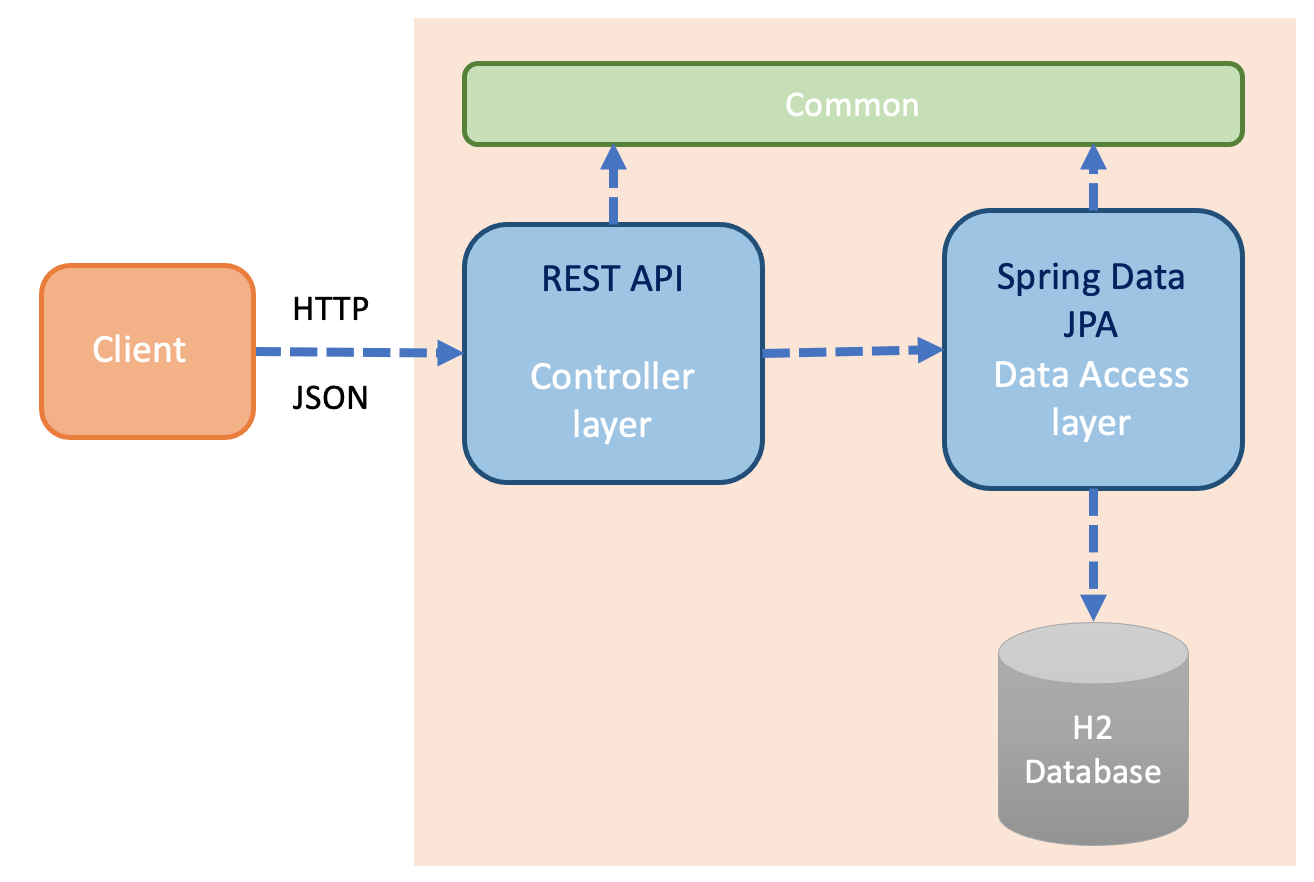
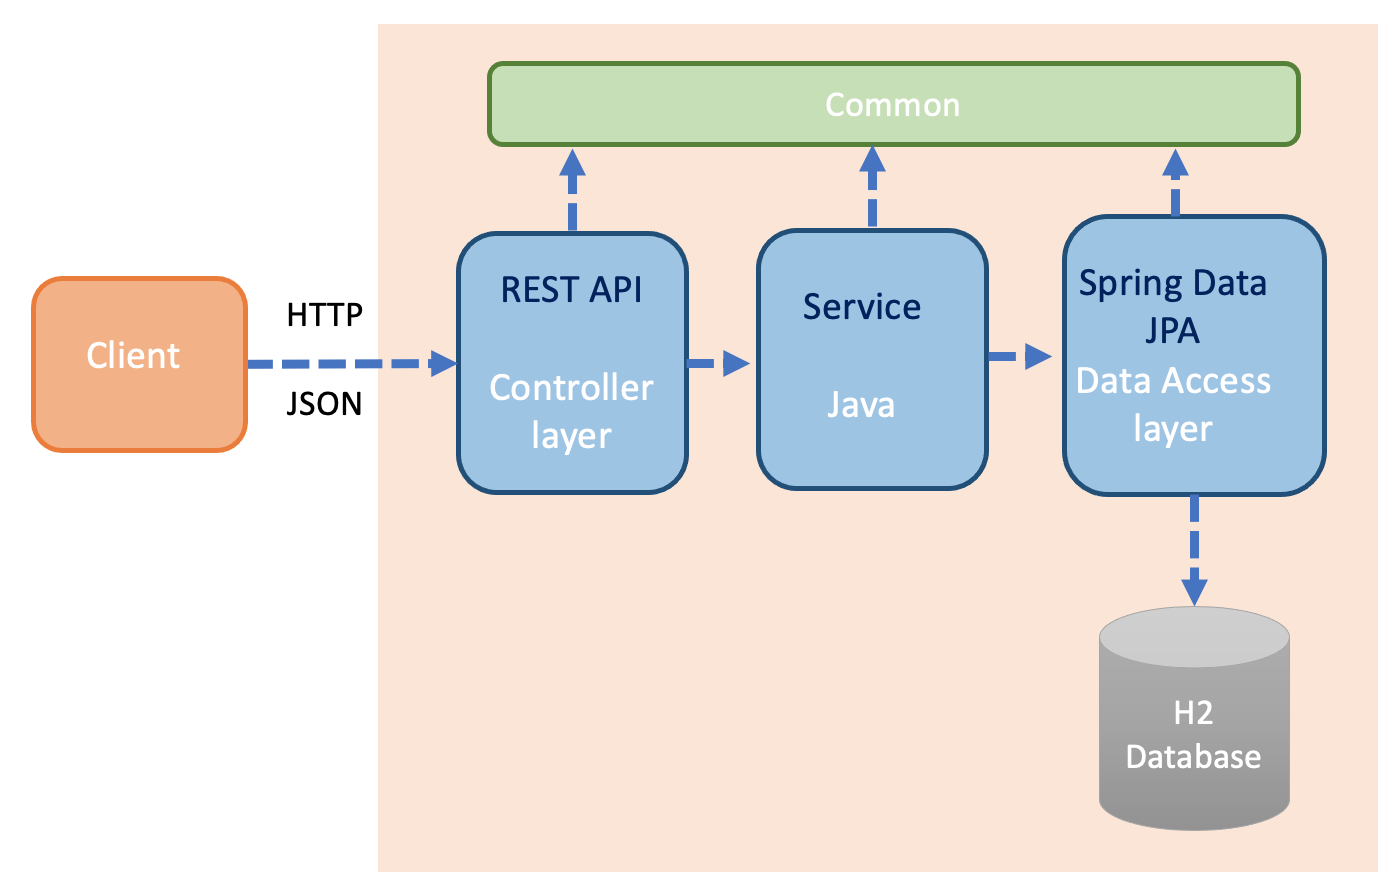
update readme

Changed region(s): [[0.0, 0.0, 0.9985, 1.0], [0.9049, 0.2449, 0.9673, 0.551]]

diff --git a/src/test/java/com/tiwa007/gamematchrestapi/controller/UserControllerTest.java b/src/test/java/com/tiwa007/gamematchrestapi/controller/UserControllerTest.java
@@ -1,11 +1,9 @@
 package com.tiwa007.gamematchrestapi.controller;
 
 import com.fasterxml.jackson.databind.ObjectMapper;
-import com.tiwa007.gamematchrestapi.Service.UserService;
+import com.tiwa007.gamematchrestapi.service.UserService;
 import com.tiwa007.gamematchrestapi.entity.Interest;
 import com.tiwa007.gamematchrestapi.entity.User;
-import com.tiwa007.gamematchrestapi.repository.InterestRepository;
-import com.tiwa007.gamematchrestapi.repository.UserRepository;
 import org.junit.Test;
 import org.junit.runner.RunWith;
 import org.mockito.internal.verification.VerificationModeFactory;
@@ -22,7 +20,6 @@ import static org.assertj.core.api.AssertionsForInterfaceTypes.assertThat;
 import static org.hamcrest.CoreMatchers.is;
 import static org.hamcrest.Matchers.hasSize;
 import static org.mockito.BDDMockito.given;
-import static org.mockito.Mockito.reset;
 import static org.mockito.Mockito.verify;
 import static org.springframework.test.web.servlet.request.MockMvcRequestBuilders.*;
 import static org.springframework.test.web.servlet.result.MockMvcResultMatchers.jsonPath;

diff --git a/src/test/java/com/tiwa007/gamematchrestapi/service/UserServiceTest.java b/src/test/java/com/tiwa007/gamematchrestapi/service/UserServiceTest.java
@@ -1,6 +1,5 @@
-package com.tiwa007.gamematchrestapi.Service;
+package com.tiwa007.gamematchrestapi.service;
 
-import com.fasterxml.jackson.databind.ObjectMapper;
 import com.tiwa007.gamematchrestapi.common.exception.InvalidRequestException;
 import com.tiwa007.gamematchrestapi.common.exception.ResourceNotFoundException;
 import com.tiwa007.gamematchrestapi.entity.Interest;

diff --git a/src/test/java/com/tiwa007/gamematchrestapi/controller/InterestControllerTest.java b/src/test/java/com/tiwa007/gamematchrestapi/controller/InterestControllerTest.java
@@ -1,7 +1,7 @@
 package com.tiwa007.gamematchrestapi.controller;
 
 import com.fasterxml.jackson.databind.ObjectMapper;
-import com.tiwa007.gamematchrestapi.Service.InterestService;
+import com.tiwa007.gamematchrestapi.service.InterestService;
 import com.tiwa007.gamematchrestapi.entity.Interest;
 import com.tiwa007.gamematchrestapi.entity.User;
 import org.junit.Test;

diff --git a/src/main/java/com/tiwa007/gamematchrestapi/controller/InterestController.java b/src/main/java/com/tiwa007/gamematchrestapi/controller/InterestController.java
@@ -1,6 +1,6 @@
 package com.tiwa007.gamematchrestapi.controller;
 
-import com.tiwa007.gamematchrestapi.Service.InterestService;
+import com.tiwa007.gamematchrestapi.service.InterestService;
 import com.tiwa007.gamematchrestapi.entity.Interest;
 import io.swagger.annotations.Api;
 import io.swagger.annotations.ApiOperation;

diff --git a/src/main/java/com/tiwa007/gamematchrestapi/controller/UserController.java b/src/main/java/com/tiwa007/gamematchrestapi/controller/UserController.java
@@ -1,7 +1,7 @@
 package com.tiwa007.gamematchrestapi.controller;
 
 
-import com.tiwa007.gamematchrestapi.Service.UserService;
+import com.tiwa007.gamematchrestapi.service.UserService;
 import com.tiwa007.gamematchrestapi.entity.Interest;
 import com.tiwa007.gamematchrestapi.entity.User;
 import io.swagger.annotations.Api;

diff --git a/src/test/java/com/tiwa007/gamematchrestapi/integration/UserControllerIntegrationTest.java b/src/test/java/com/tiwa007/gamematchrestapi/integration/UserControllerIntegrationTest.java
@@ -274,10 +274,6 @@ public class UserControllerIntegrationTest {
                 .andExpect(jsonPath("$[0].userId", is(1005)));
     }
 
-
-
-//    Todo for rest methods
-
 //    Helper methods
 
     private UserRequest produceTestUser(String name, String gender, String nickname, String geography, Integer credit,

diff --git a/src/main/java/com/tiwa007/gamematchrestapi/service/InterestService.java b/src/main/java/com/tiwa007/gamematchrestapi/service/InterestService.java
@@ -1,4 +1,4 @@
-package com.tiwa007.gamematchrestapi.Service;
+package com.tiwa007.gamematchrestapi.service;
 
 import com.tiwa007.gamematchrestapi.common.exception.InvalidRequestException;
 import com.tiwa007.gamematchrestapi.common.exception.ResourceNotFoundException;

diff --git a/src/test/java/com/tiwa007/gamematchrestapi/service/InterestServiceTest.java b/src/test/java/com/tiwa007/gamematchrestapi/service/InterestServiceTest.java
@@ -1,4 +1,4 @@
-package com.tiwa007.gamematchrestapi.Service;
+package com.tiwa007.gamematchrestapi.service;
 
 import com.tiwa007.gamematchrestapi.common.exception.InvalidRequestException;
 import com.tiwa007.gamematchrestapi.entity.Interest;

diff --git a/src/main/java/com/tiwa007/gamematchrestapi/service/UserService.java b/src/main/java/com/tiwa007/gamematchrestapi/service/UserService.java
@@ -1,4 +1,4 @@
-package com.tiwa007.gamematchrestapi.Service;
+package com.tiwa007.gamematchrestapi.service;
 
 import com.tiwa007.gamematchrestapi.entity.Interest;
 import com.tiwa007.gamematchrestapi.entity.User;

diff --git a/README.md b/README.md
@@ -16,7 +16,7 @@ Main features include:
 
 - [Architecture](#architecture)
 - [REST API Design](#rest-api-design)
-- [Datamodel](#datamodel)
+- [Service layer](#service-layer)
 - [Unit testing](#unit-testing)
 
 #### Architecture
@@ -29,19 +29,39 @@ The below image shows the high level architecture of the backend server.
 \
 Package overview:
 - **`gamematchrestapi.controller`**: Provides the REST API.
+- **`gamematchrestapi.service`**: Main logic of the application in POJOs (Plain Old Java Objects).
 - **`gamematchrestapi.entity`**: Classes that represent persistable entities.
 - **`gamematchrestapi.repository`**: Classes performs CRUD (Create, Read, Update, Delete) operations and act as the bridge to the H2 Database.
-- **`gamematchrestapi.exception`**: Contains custom exceptions.
-- **`gamematchrestapi.config`**: Classes for the configuration of Swagger 3 and CORS.
+- **`gamematchrestapi.common`**:  Common component contains custom exceptions and configuration of Swagger 3 and CORS.
 
 ![High Level Architecture](docs/images/highlevelArchitecture.png)
 
 #### REST API Design
-The following tables shows the design of the REST API. 
+The following tables shows the design of the REST API. The class ``UserController`` implements No. 1-8 API methods for ``User`` entity. 
+The class ``InterestController`` implements No. 9-13 API methods for ``Interest`` entity. 
 ![REST API Design1](docs/images/RESTAPI1.png)
 ![REST API Design2](docs/images/RESTAPI2.png)
 
-#####Policies
+#### Service layer
+
+The service layer handles the business logic of the system. 
+It is responsible for: 
+- Managing relationships between entities, e.g. cascade logic for create/update/delete.
+- Searching for desired user and interest
+
+##### Datamodel
+There are two entities: `User` and `Interest`. Entity `User` has name, gender, nickname and geography attributes. 
+Entity `Interest` has game, level, credit attributes. Entity `User` have an one-to-many relationship with Entity `Interest`.
+
+![Datamodels](docs/images/Datamodels.png)
+
+To ensure they are in a valid state, data was validated inside entities before creating/updating them. 
+[Hibernate Validator](http://hibernate.org/validator/) and custom validator (`@InStringArray`) were used to 
+validate application constraints as shown in the following table.
+
+![Input validator](docs/images/validator.png)
+
+##### Policies
 
 API for creating:
 + Attempt to create an entity with invalid data: Throws `MethodArgumentNotValidException`.
@@ -61,24 +81,16 @@ API for deleting:
 API usage was documented using ``Swagger 3`` and the document is available at http://localhost:8080/swagger-ui/#/ 
 when the server is running.
 
-#### Datamodel
-There are two entities: `User` and `Interest`. Entity `User` has name, gender, nickname and geography attributes. 
-Entity `Interest` has game, level, credit attributes. Entity `User` have an one-to-many relationship with Entity `Interest`.
-
-![Datamodels](docs/images/Datamodels.png)
-
-To ensure they are in a valid state, data was validated inside entities before creating/updating them. 
-[Hibernate Validator](http://hibernate.org/validator/) and custom validator (`@InStringArray`) were used to 
-validate application constraints as shown in the following table.
-
-![Input validator](docs/images/validator.png)
-
 
 #### Unit testing
 
 - The controller classes was tested with Spring Boot and ``@WebMvcTest``
 - In the data access layer, JPA Queries of the repository classes was tested with Spring Boot and ``@DataJpaTest``
 - Integration Tests with ``@SpringBootTest``
+
+The following image shows the coverage of the unit testing. The method and line coverage are above 85%.
+
+![Unit Test Coverage](docs/images/Coverage.png)
 
 
 ##### Build the Project
